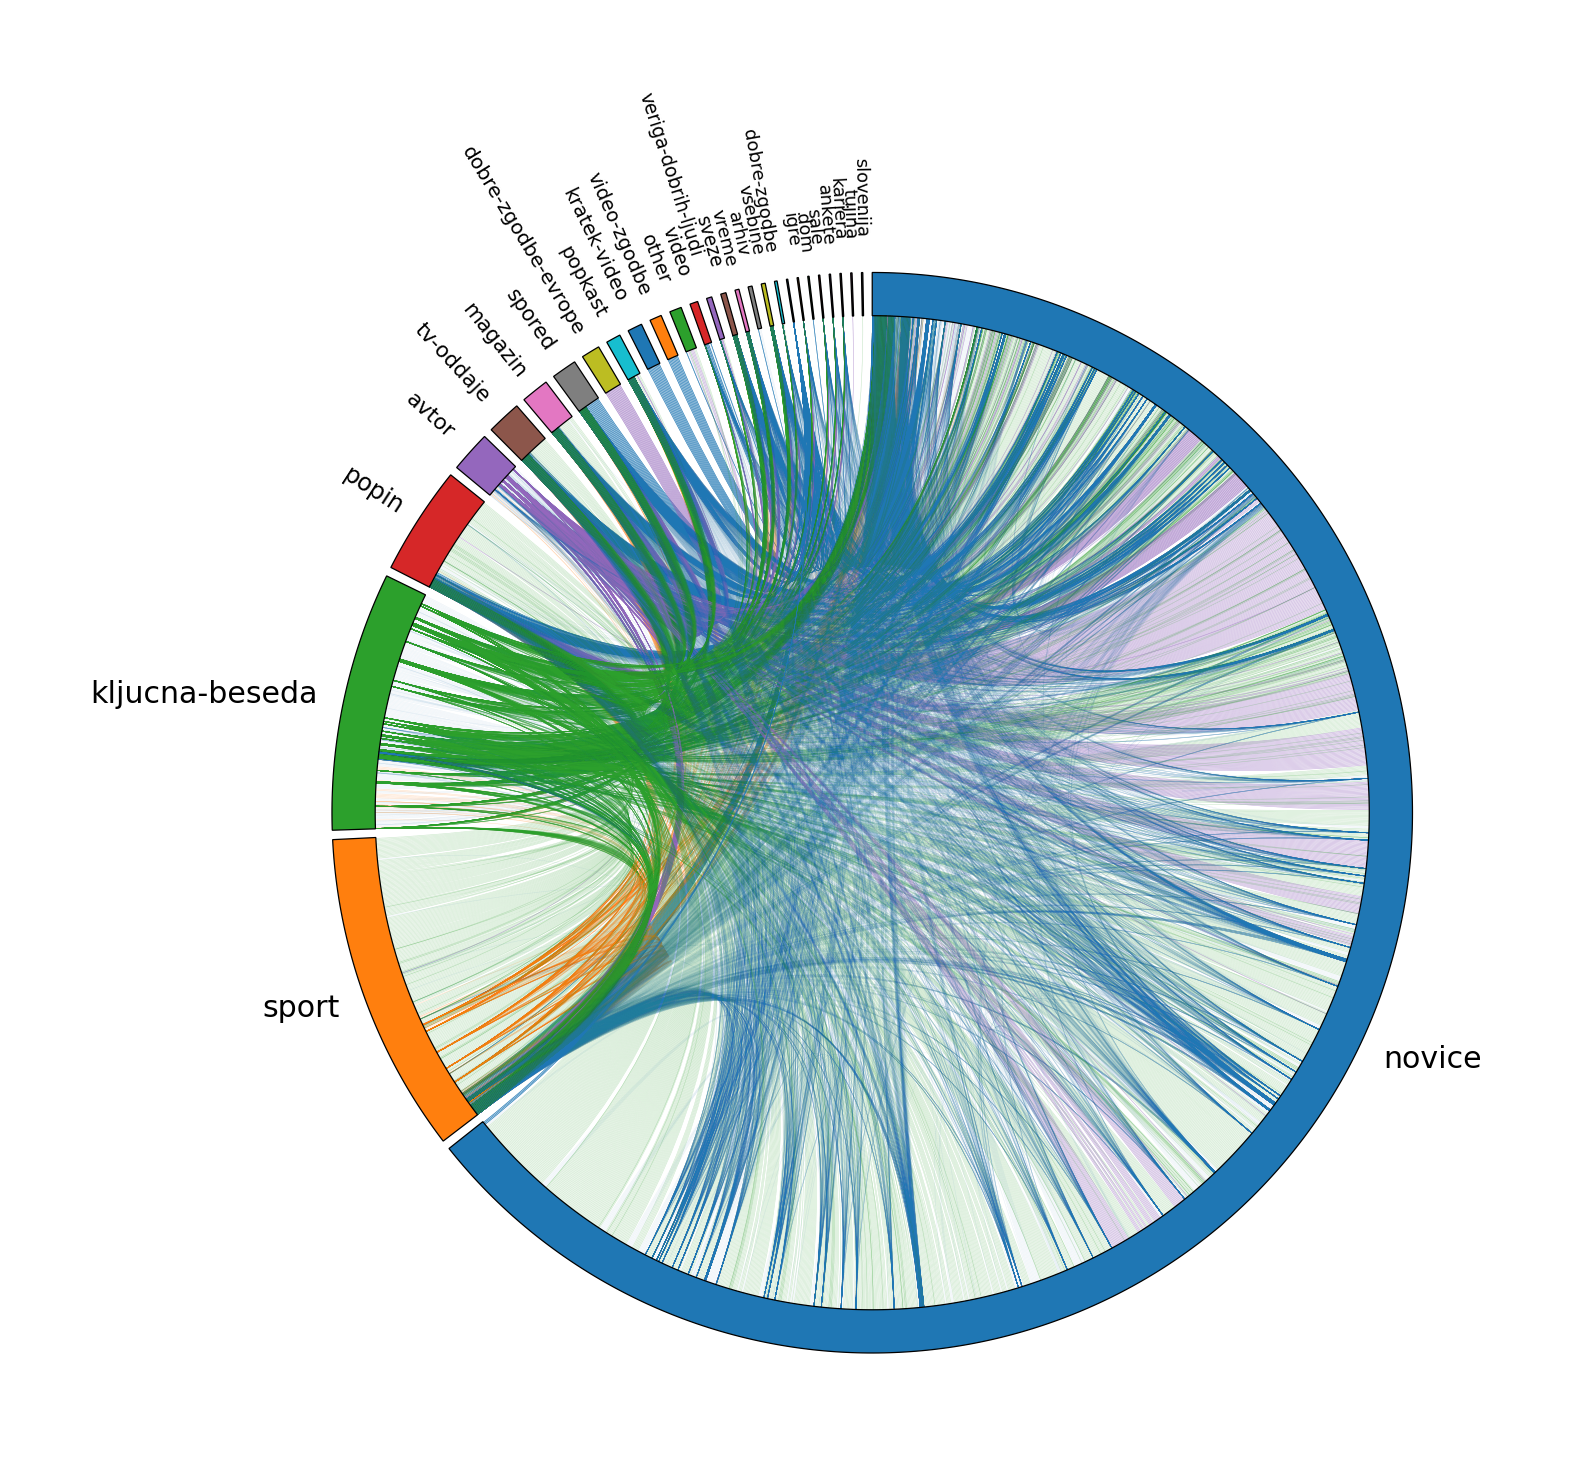
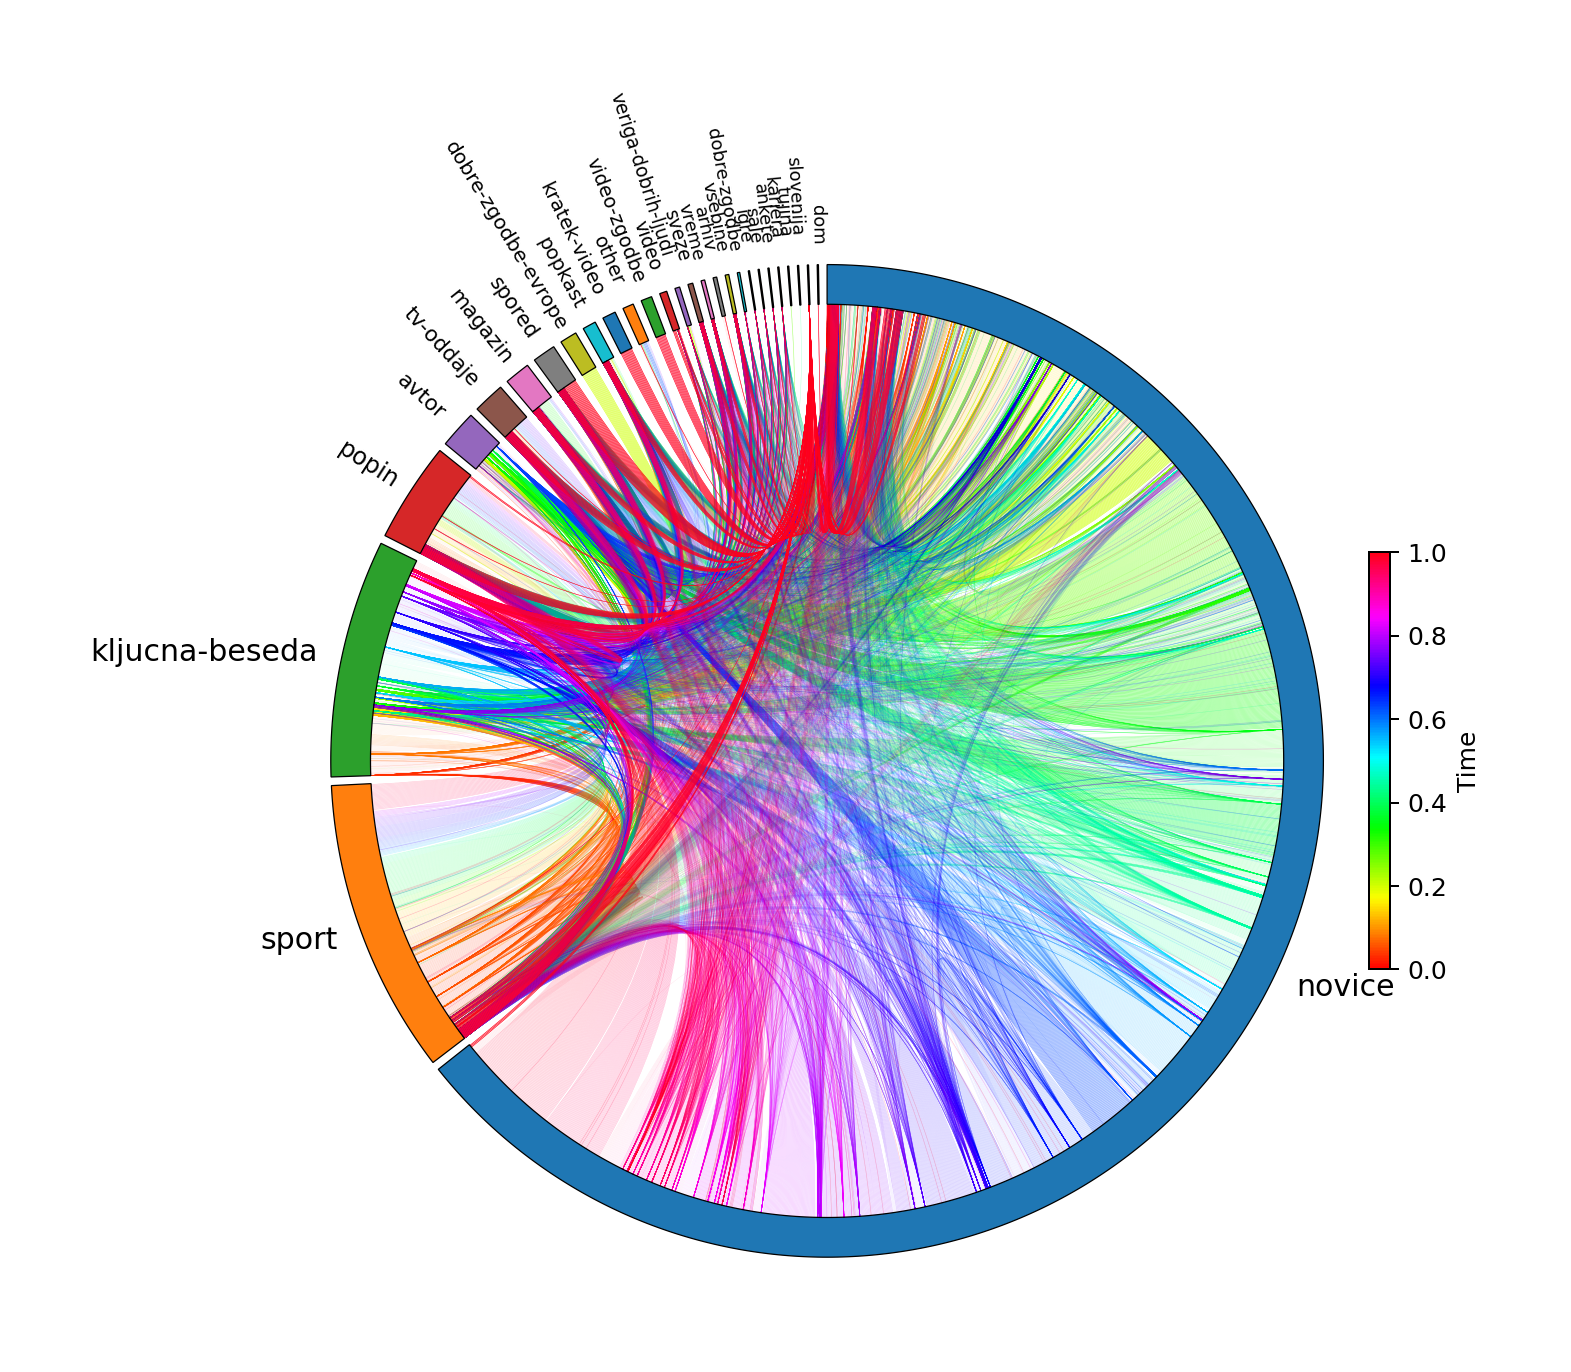
Page type over time plot

diff --git a/pa1/crawler/client/visualize_data.py b/pa1/crawler/client/visualize_data.py
@@ -10,6 +10,11 @@ from pycirclize.utils import ColorCycler
 
 ColorCycler.set_cmap("tab10")
 
+cmap = plt.get_cmap("hsv")  # or "jet", "turbo", "hsv"
+
+def get_rainbow_color(t):
+    return cmap(t)  # t ∈ [0, 1]
+
 def visualize_links(page_links):
 
     sectors = {}
@@ -104,6 +109,69 @@ def visualize_links(page_links):
     fig = circos.plotfig(figsize=(12, 12))
     circos.savefig("plot.png", dpi=180)
 
+
+
+def visualize_path(page_links):
+
+    section_counters = {}
+
+    new_id_map = {}
+
+    page_links = sorted(page_links, key=lambda x: x.get("accessed_time"))
+
+    ordered_sections = []
+
+    for link in page_links:
+        p1_id = link.get("from_page")
+        p2_id = link.get("to_page")
+        from_page_url = link.get("from_url")
+        to_page_url = link.get("to_url")
+
+        from_parsed = urlparse(from_page_url)
+
+        from_parsed_section = from_parsed.path.split("/")[1]
+
+        if ".html" in from_parsed_section:
+            from_parsed_section = "other"
+
+        if from_parsed_section not in section_counters:
+            section_counters[from_parsed_section] = 1
+        else:
+            section_counters[from_parsed_section] += 1
+
+        ordered_sections.append(from_parsed_section)
+
+    time_slot_size = 200
+    counter = 0
+    time_slot_counter = {s: 0 for s in section_counters.keys()}
+
+    stack_plot_data = {s: [] for s in section_counters.keys()}
+
+    for section in ordered_sections:
+        if section not in time_slot_counter:
+            time_slot_counter[section] = 1
+        else:
+            time_slot_counter[section] += 1
+        counter += 1
+        if counter >= time_slot_size:
+            for k,v in time_slot_counter.items():
+                stack_plot_data[k].append(v)
+            counter = 0
+            time_slot_counter = {s: 0 for s in section_counters.keys()}
+
+    #print(new_id_map)
+
+    fig, ax = plt.subplots()
+    ax.stackplot(range(0, len(links)-time_slot_size, time_slot_size), stack_plot_data.values(),
+                labels=stack_plot_data.keys(), alpha=1)
+    ax.legend(loc='lower right')
+    ax.set_title('Page topics crawled')
+    ax.set_xlabel('Time')
+    ax.set_ylabel('Num. pages')
+    plt.savefig("crawler_path.png")
+    
+
+
 if __name__ == "__main__":
 
     database_base_url: str = 'https://server:5000'
@@ -113,4 +181,4 @@ if __name__ == "__main__":
     print(links[0])
     print(len(links))
 
-    visualize_links(links)
+    visualize_path(links)

diff --git a/pa1/crawler/server/api/links.py b/pa1/crawler/server/api/links.py
@@ -58,6 +58,7 @@ def list_links_with_urls():
                 database.Link.to_page,
                 p1.url.label("from_url"),
                 p2.url.label("to_url"),
+                p1.accessed_time.label("time")
             )
             .join(p1, database.Link.from_page == p1.id)
             .join(p2, database.Link.to_page == p2.id)
@@ -70,6 +71,7 @@ def list_links_with_urls():
                 "to_page": row.to_page,
                 "from_url": row.from_url,
                 "to_url": row.to_url,
+                "accessed_time": row.time
             }
             for row in items
         ])
